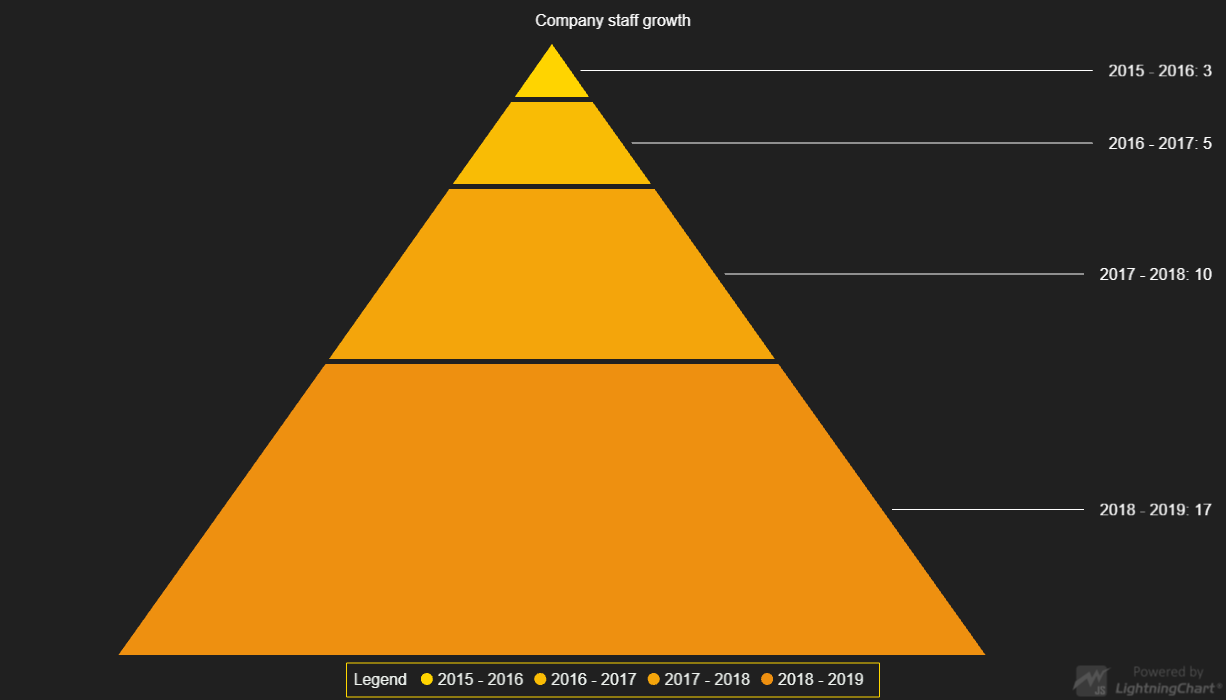
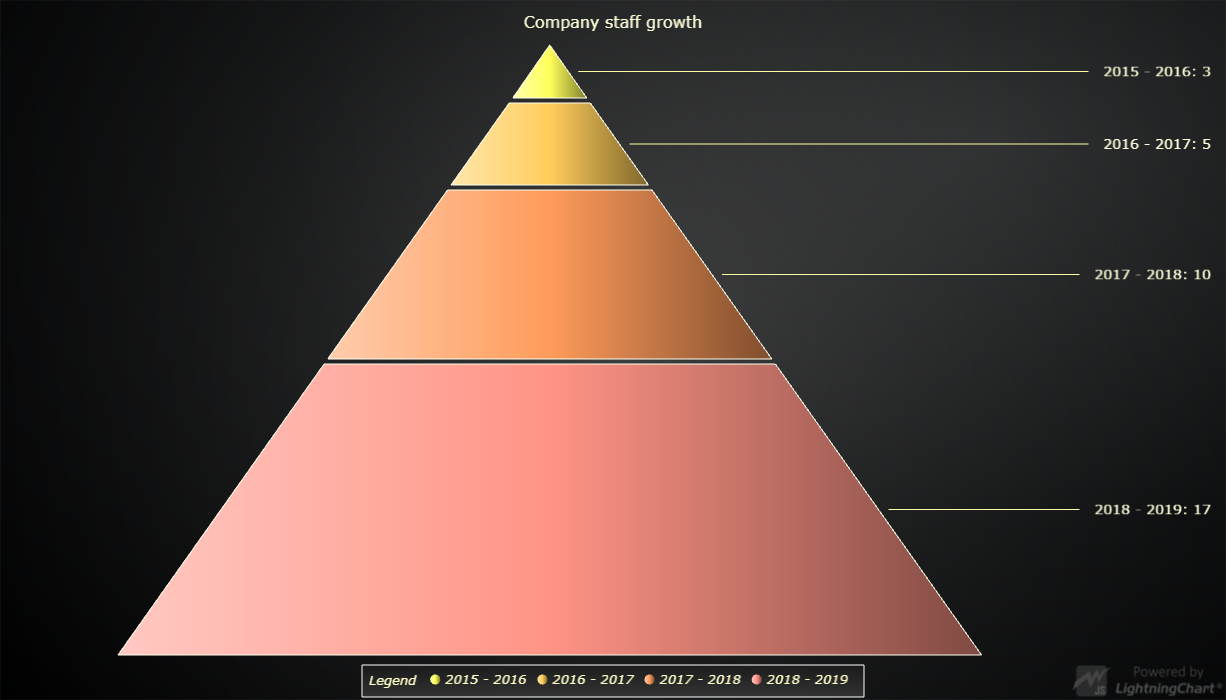
Update LCJS version

diff --git a/src/index.js b/src/index.js
@@ -11,16 +11,13 @@ const {
     SliceLabelFormatters,
     lightningChart,
     LegendBoxBuilders,
-    SolidFillPalette,
-    ColorPalettes,
-    UIOrigins,
     Themes
 } = lcjs
 
 // Create a Pyramid chart
 const pyramid = lightningChart()
     .Pyramid({
-        // theme: Themes.dark 
+        // theme: Themes.darkGold 
         type: PyramidChartTypes.LabelsOnSides
     })
     .setTitle('Company staff growth')
@@ -52,17 +49,17 @@ const data = [
 // Add data to the slices
 pyramid.addSlices(data)
 
-
-// Create warm Palette for Pyramid (defines color of Slice filling)
-// const palette = SolidFillPalette(ColorPalettes.warm, data.length)
-// pyramid.setSliceFillStyle(palette)
-
 // Set formatter of Slice Labels
 pyramid.setLabelFormatter(SliceLabelFormatters.NamePlusValue)
 
 // Add LegendBox and define the position in the chart
 const lb = pyramid
     .addLegendBox(LegendBoxBuilders.HorizontalLegendBox)
+    // Dispose example UI elements automatically if they take too much space. This is to avoid bad UI on mobile / etc. devices.
+    .setAutoDispose({
+        type: 'max-width',
+        maxWidth: 0.80,
+    })
 
 // Add the Pyramid to the LegendBox and disable the button click functionality.
 lb.add(pyramid, { disposeOnClick: false })

diff --git a/webpack.config.js b/webpack.config.js
@@ -69,7 +69,8 @@ module.exports = {
         }),
         new CopyWebpackPlugin({
             patterns: [
-                { from: './assets/**/*', to: './examples/assets', flatten: true, noErrorOnMissing: true }
+                { from: './assets/**/*', to: './examples/assets', flatten: true, noErrorOnMissing: true },
+                { from: './node_modules/@arction/lcjs/dist/resources', to: 'resources', noErrorOnMissing: true },
             ]
         })
     ]

diff --git a/README.md b/README.md
@@ -139,12 +139,12 @@ Direct developer email support can be purchased through a [Support Plan][4] or b
 © Arction Ltd 2009-2020. All rights reserved.
 
 
-[Pyramid Chart]: https://www.arction.com/lightningchart-js-api-documentation/v3.0.1/classes/pyramidchart.html
-[Pyramid Chart Types]: https://www.arction.com/lightningchart-js-api-documentation/v3.0.1/globals.html#pyramidcharttypes
-[Pyramid Label Side]: https://www.arction.com/lightningchart-js-api-documentation/v3.0.1/enums/pyramidlabelside.html
-[Slice label formatter]: https://www.arction.com/lightningchart-js-api-documentation/v3.0.1/globals.html#slicelabelformatter
-[Palette]: https://www.arction.com/lightningchart-js-api-documentation/v3.0.1/globals.html#colorpalettes
-[SolidFillPalette]: https://www.arction.com/lightningchart-js-api-documentation/v3.0.1/globals.html#solidfillpalette
-[Solid Line]: https://www.arction.com/lightningchart-js-api-documentation/v3.0.1/classes/solidline.html
-[Solid Fill]: https://www.arction.com/lightningchart-js-api-documentation/v3.0.1/classes/solidfill.html
+[Pyramid Chart]: https://www.arction.com/lightningchart-js-api-documentation/v3.1.0/classes/pyramidchart.html
+[Pyramid Chart Types]: https://www.arction.com/lightningchart-js-api-documentation/v3.1.0/globals.html#pyramidcharttypes
+[Pyramid Label Side]: https://www.arction.com/lightningchart-js-api-documentation/v3.1.0/enums/pyramidlabelside.html
+[Slice label formatter]: https://www.arction.com/lightningchart-js-api-documentation/v3.1.0/globals.html#slicelabelformatter
+[Palette]: https://www.arction.com/lightningchart-js-api-documentation/v3.1.0/globals.html#colorpalettes
+[SolidFillPalette]: https://www.arction.com/lightningchart-js-api-documentation/v3.1.0/globals.html#solidfillpalette
+[Solid Line]: https://www.arction.com/lightningchart-js-api-documentation/v3.1.0/classes/solidline.html
+[Solid Fill]: https://www.arction.com/lightningchart-js-api-documentation/v3.1.0/classes/solidfill.html
 
